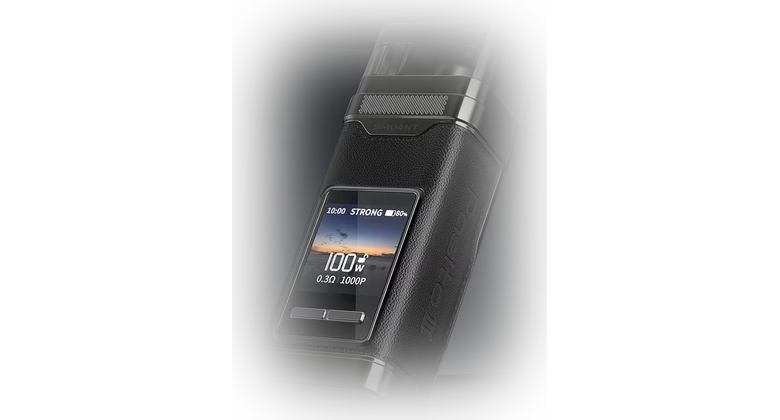
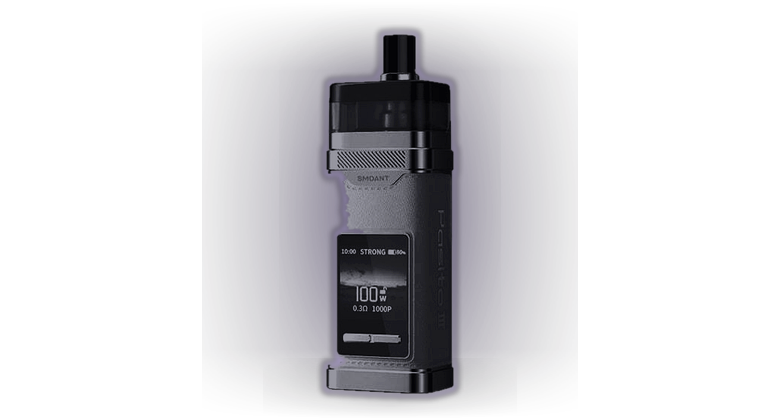
sync: dev21 PASITO 3 photo fix + IMG_VER 20261012b

Changed region(s): [[0.3385, 0.031, 0.7385, 0.9595], [0.2769, 0.2476, 0.3077, 0.7738]]

diff --git a/miniapp/index.html b/miniapp/index.html
@@ -5,7 +5,7 @@
 <meta name="viewport" content="width=device-width, initial-scale=1, maximum-scale=1, user-scalable=no">
 <title>VapeOasis — мини-приложение</title>
 <script src="https://telegram.org/js/telegram-web-app.js"></script>
-<link rel="stylesheet" href="style.css?v=20261012a">
+<link rel="stylesheet" href="style.css?v=20261012b">
 </head>
 <body>
 <div id="fx"></div>
@@ -82,7 +82,7 @@
 
 <div class="sheet" id="sheet"><div class="in" id="sheetIn"></div></div>
 
-<script src="products.js?v=20261012a"></script>
-<script src="app.js?v=20261012a"></script>
+<script src="products.js?v=20261012b"></script>
+<script src="app.js?v=20261012b"></script>
 </body>
 </html>

diff --git a/miniapp/app.js b/miniapp/app.js
@@ -20,7 +20,7 @@ let discountPick = localStorage.getItem("vo_disc") || null; // жижа, на к
 
 const $ = s=>document.querySelector(s);
 const money = n=>n+"₽";
-const IMG_VER = "20261012a";
+const IMG_VER = "20261012b";
 const imgv = u => u ? (u.indexOf("?")>=0 ? u : u+"?v="+IMG_VER) : u;
 const byId = id=>PRODUCTS.find(p=>p.id===id);
 const catEmoji = c=>({liquids:"🧪",pods:"🔌",disposable:"💨",cartridges:"♻",snus:"📦"}[c]||"•");
